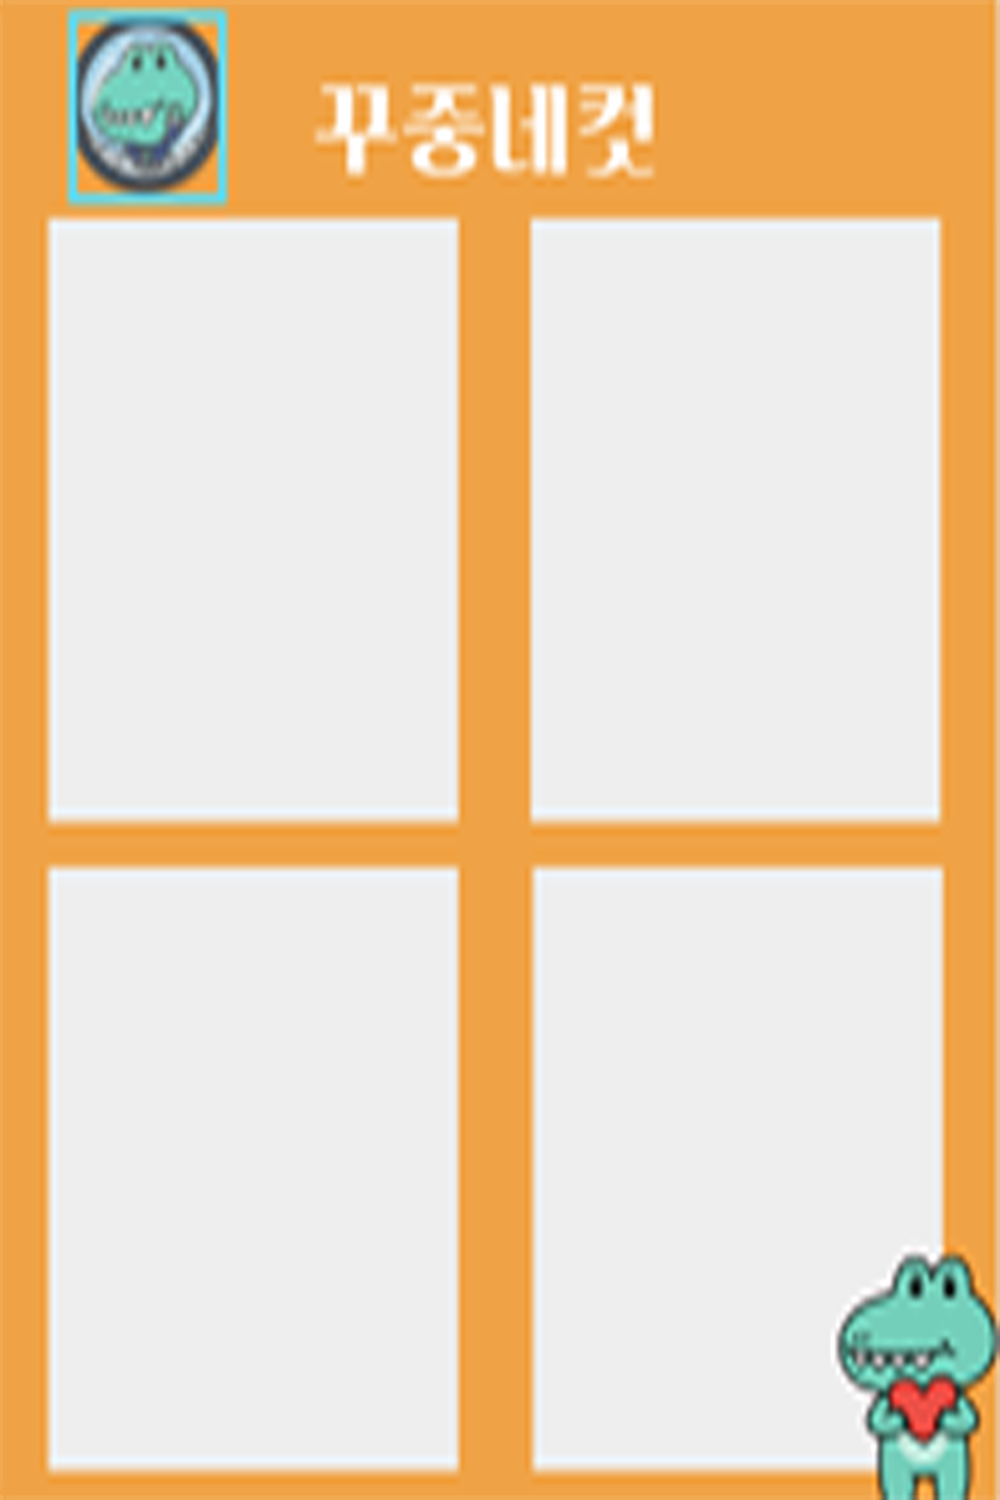
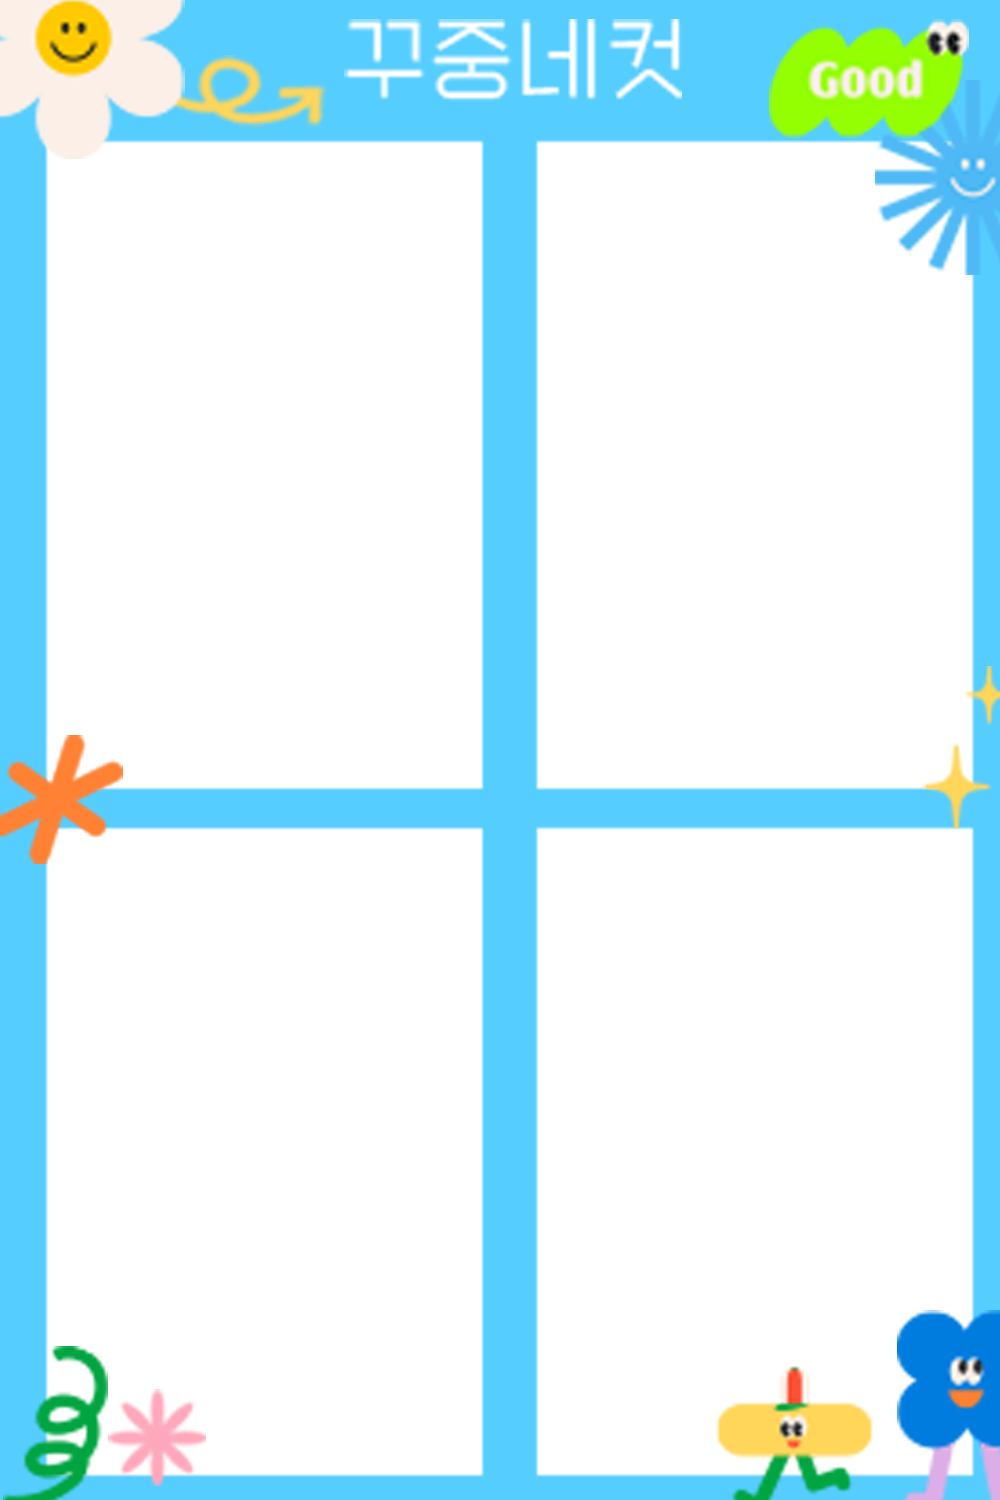
chore: Photoselect Edit

diff --git a/fe/src/pages/Frameselect.tsx b/fe/src/pages/Frameselect.tsx
@@ -7,36 +7,49 @@ import basic1 from "../img/frame/basic-1.png";
 import basic2 from "../img/frame/basic-2.png";
 import event1 from "../img/frame/event-1.png";
 import event2 from "../img/frame/event-2.png";
+import pre_event1 from "../img/preview_frame/event-1.png"
+
+
+// 메인과 프리뷰 이미지를 함께 관리하는 객체
+export const frames = [
+  { id: "basic-1", main: basic1, preview: basic1, label: "기본-1", type: "basic" },
+  { id: "basic-2", main: basic2, preview:basic2, label: "기본-2", type: "basic" },
+  { id: "event-1", main: event1, preview: pre_event1, label: "이벤트-1", type: "event" },
+  { id: "event-2", main: event2, preview: event2, label: "이벤트-2", type: "event" },
+];
 
 export default function Frameselect() {
   const navigate = useNavigate();
-  
-  const [selectedFrame, updateSelectedFrame] = useState<string | null>(getSelectedFrame());
-  useEffect(() => {
-    setSelectedFrame(selectedFrame);
-  }, [selectedFrame]);
 
-  const frameTypes: { id: string; label: string; options: string[] }[] = [
-    { id: "basic", label: "기본", options: [basic1, basic2] },
-    { id: "event", label: "이벤트", options: [event1, event2] },
-  ];
-  
+  // 상태는 이미지 경로가 아닌 프레임의 고유 ID로 관리
+  const [selectedFrameId, setSelectedFrameId] = useState<string | null>(getSelectedFrame());
+
+  // 선택된 ID를 기반으로 해당 프레임 객체 찾기
+  const selectedFrame = frames.find((f) => f.id === selectedFrameId);
+
+  useEffect(() => {
+    setSelectedFrame(selectedFrameId);
+  }, [selectedFrameId]);
+
   const { sec } = useCountdown({
-        seconds: 100,
-        autostart: true,
-        onExpire: () => {navigate("/Loading", { replace: true });},
-    });
+    seconds: 100,
+    autostart: true,
+    onExpire: () => {
+      navigate("/Loading", { replace: true });
+    },
+  });
+
+  // 프레임 타입을 묶어서 렌더링하기 위한 로직
+  const groupedFrames = frames.reduce((acc, frame) => {
+    (acc[frame.type] = acc[frame.type] || []).push(frame);
+    return acc;
+  }, {} as Record<string, typeof frames>);
+
   return (
     <div className="min-h-screen w-screen bg-[#CFAB8D] grid place-items-center">
-      {/* 흰 캔버스 */}
       <section
-        className="
-          relative bg-white border-4 border-black rounded-2xl
-          w-[min(90vw,1400px)] h-[min(90vh,900px)]
-          p-[clamp(16px,2.5vw,32px)] flex flex-col 
-        "
+        className="relative bg-white border-4 border-black rounded-2xl w-[min(90vw,1400px)] h-[min(90vh,900px)] p-[clamp(16px,2.5vw,32px)] flex flex-col"
       >
-        {/* 상단 */}
         <header className="flex items-center gap-4">
           <button
             onClick={() => navigate(-1)}
@@ -50,19 +63,16 @@ export default function Frameselect() {
           </h1>
         </header>
 
-        {/* 본문: 항상 2열 유지 (왼쪽 고정폭 + 오른쪽 가변폭) */}
-        <main
-          className="flex-1 min-h-0 mt-[clamp(12px,1.5vw,20px)] grid grid-cols-2">
-          {/* ⬅ 왼쪽: 프리뷰 (반응형 고정폭 + 왼쪽만 살짝 들여쓰기) */}
+        <main className="flex-1 min-h-0 mt-[clamp(12px,1.5vw,20px)] grid grid-cols-2">
+          {/* ⬅ 왼쪽: 프리뷰 */}
           <section className="flex justify-center items-center">
-            {/* 2:3 비율 고정 박스 */}
             <div className="relative aspect-[2/3] w-[clamp(200px,25vw,380px)] rounded-md border border-neutral-300 bg-[#d9d9d9] overflow-hidden">
                 <img
-                  src={selectedFrame ?? ""} 
+                  // 선택된 프레임의 main 이미지를 사용
+                  src={selectedFrame?.main}
                   alt="프레임 미리보기"
                   className="block h-full w-full object-contain"
                   draggable={false}
-                  // 이미지 없거나 깨질 때 레이아웃 유지
                   onError={(e) => {
                     (e.currentTarget as HTMLImageElement).style.visibility = "hidden";
                   }}
@@ -70,29 +80,30 @@ export default function Frameselect() {
             </div>
           </section>
 
-          {/* ➡ 오른쪽: 옵션 (오버플로 방지 + 내부 폭 제한) */}
+          {/* ➡ 오른쪽: 옵션 */}
           <aside className="flex justify-center items-center">
             <div className="w-full max-w-[680px] px-[clamp(8px,1.5vw,24px)] space-y-[clamp(16px,3vw,32px)]">
-              {frameTypes.map((t) => (
-                <div key={t.id} className="flex flex-col gap-[clamp(8px,1.5vw,16px)]">
+              {Object.entries(groupedFrames).map(([type, options]) => (
+                <div key={type} className="flex flex-col gap-[clamp(8px,1.5vw,16px)]">
                   <h2 className='font-["Hi_Melody"] text-[clamp(18px,2.5vw,28px)]'>
-                    {t.label}
+                    {type === "basic" ? "기본" : "이벤트"}
                   </h2>
                   <div className="flex gap-[clamp(12px,2vw,24px)]">
-                    {t.options.map((opt) => {
-                      const isSelected = selectedFrame === opt;
+                    {options.map((opt) => {
+                      const isSelected = selectedFrameId === opt.id;
                       return (
                         <button
-                          key={opt}
+                          key={opt.id}
                           type="button"
-                          onClick={() => updateSelectedFrame(opt)} 
+                          onClick={() => setSelectedFrameId(opt.id)}
                           className={[
-                            "rounded-full border-4 transition-all size-[clamp(64px,8vw,120px)] ",
+                            "rounded-full border-4 transition-all size-[clamp(64px,8vw,120px)]",
                             isSelected
                               ? "bg-[#b9b9b9] border-blue-500 shadow-[0_0_0_6px_rgba(79,140,255,0.25)]"
                               : "border-2 border-gray-300 hover:border-gray-400",
                           ].join(" ")}
-                          style={{ backgroundImage: `url(${opt})` }} 
+                          // 버튼 배경은 main 이미지를 사용
+                          style={{ backgroundImage: `url(${opt.preview})`, backgroundSize: 'cover', backgroundPosition: 'center' }}
                         />
                       );
                     })}
@@ -102,18 +113,13 @@ export default function Frameselect() {
             </div>
           </aside>
         </main>
-
-        {/* 하단 Next: 박스 안 오른쪽 아래 */}
+        
         <footer className="mt-auto flex justify-end">
           <button
-            onClick={() => selectedFrame && navigate("/Loading")}
-            disabled={!selectedFrame}
-            className='font-["Hi_Melody"] whitespace-nowrap
-                       px-[clamp(16px,2.8vw,28px)]
-                       h-[clamp(44px,6vh,56px)]
-                       rounded-xl border border-black bg-[#cfab8d]
-                       text-[clamp(18px,2.2vw,24px)] text-black
-                       hover:brightness-95 disabled:opacity-50 transition'>
+            onClick={() => selectedFrameId && navigate("/Loading")}
+            disabled={!selectedFrameId}
+            className='font-["Hi_Melody"] whitespace-nowrap px-[clamp(16px,2.8vw,28px)] h-[clamp(44px,6vh,56px)] rounded-xl border border-black bg-[#cfab8d] text-[clamp(18px,2.2vw,24px)] text-black hover:brightness-95 disabled:opacity-50 transition'
+          >
             Next
           </button>
         </footer>

diff --git a/fe/src/pages/Photoselect.tsx b/fe/src/pages/Photoselect.tsx
@@ -7,6 +7,7 @@ import { getSelectedFrame } from "../lib/selectFrame";
 import { ResponsivePhotoQuad } from "../components/ResponsivePhotoQuad";
 import { saveComposedQuadAsFile } from "../lib/composePhotoQuad";
 import { usePhotoStore } from "../stores/photoStore";
+import {frames} from "./Frameselect"
 
 export default function Photoselect() {
   const navigate = useNavigate();
@@ -78,8 +79,9 @@ export default function Photoselect() {
     else insertId(id);
   };
 
-  const selectFrame = getSelectedFrame();
-  const frameImg = selectFrame ? selectFrame : "";
+  const selectedFrameId = getSelectedFrame();
+  const selectedFrame = frames.find(f=>f.id === selectedFrameId);
+  const frameImg = selectedFrame?.main?? "";
 
   const firstTileRef = useRef<HTMLDivElement | null>(null);
   const [tileW, setTileW] = useState(0); // 왼쪽 한 칸의 실제 너비(px)
@@ -198,7 +200,6 @@ export default function Photoselect() {
               type="button"
               onClick={async () => {
                 try {
-                  const frameImg = getSelectedFrame() ?? "";
                   await saveComposedQuadAsFile(
                     { slots, photos: sortedPhotos, frameImg },
                     { format: "png", filename: "photocard.png" }

diff --git a/fe/src/components/ResponsivePhotoQuad.tsx b/fe/src/components/ResponsivePhotoQuad.tsx
@@ -1,6 +1,7 @@
 // ResponsivePhotoQuad.tsx
 import React, { useMemo } from "react";
 import { getSelectedFrame } from "../lib/selectFrame";
+import {frames} from "../pages/Frameselect"
 
 type Rect = { x: number; y: number; w: number; h: number };
 
@@ -34,8 +35,8 @@ type Props = {
 
 export function ResponsivePhotoQuad({
   design = { w: 1000, h: 1500 },
-  base = { x: 50, y: 220, w: 410, h: 600 },
-  gap = { x: 70, y: 45 },
+  base = { x: 46, y: 142, w: 436, h: 647 },
+  gap = { x: 55, y: 39 },
   count = 4,
 
   slots,
@@ -53,7 +54,10 @@ export function ResponsivePhotoQuad({
 }: Props) {
   const FRAME_W = design.w;
   const FRAME_H = design.h;
-  const frameImg = getSelectedFrame() ?? "";
+  
+  const selectedFrameId = getSelectedFrame();
+  const selectedFrame = frames.find(f=>f.id === selectedFrameId);
+  const frameImg = selectedFrame?.main?? "";
 
   // 슬롯 배치 (2x2)
   const rects: Rect[] = useMemo(() => {

diff --git a/fe/src/pages/Phototime.tsx b/fe/src/pages/Phototime.tsx
@@ -61,7 +61,7 @@ export default function Phototime() {
 
   // 카운트다운
   const { sec, start, reset, pause, resume } = useCountdown({
-    seconds: 10,
+    seconds: 1,
     autostart: false,
     onExpire: async () => {
       // 1) 사진 캡쳐(2:3 리사이즈)
@@ -98,8 +98,8 @@ export default function Phototime() {
           setIsIntermission(false);
 
           setCurrentPhoto((p) => p + 1);
-          reset(10);
-          start(10);
+          reset(1);
+          start(1);
 
           intermissionTid.current = null;
         }, INTERMISSION_MS);
@@ -134,8 +134,8 @@ export default function Phototime() {
   useEffect(() => {
     if (streamReady && !countdownStartedRef.current) {
       countdownStartedRef.current = true;
-      reset(10);
-      start(10);
+      reset(1);
+      start(1);
 
       if (!recordingStartedRef.current) {
         try {

diff --git a/fe/src/lib/composePhotoQuad.ts b/fe/src/lib/composePhotoQuad.ts
@@ -67,8 +67,8 @@ export async function composeQuadImage(
 ): Promise<Blob> {
   const {
     design = { w: 1000, h: 1500 },
-    base = { x: 50, y: 220, w: 410, h: 600 },
-    gap = { x: 70, y: 45 },
+    base = { x: 46, y: 142, w: 436, h: 647 },
+    gap = { x: 55, y: 39 },
     count = 4,
     drawEmptyGuide = true,
     backgroundColor = "#ffffff",
